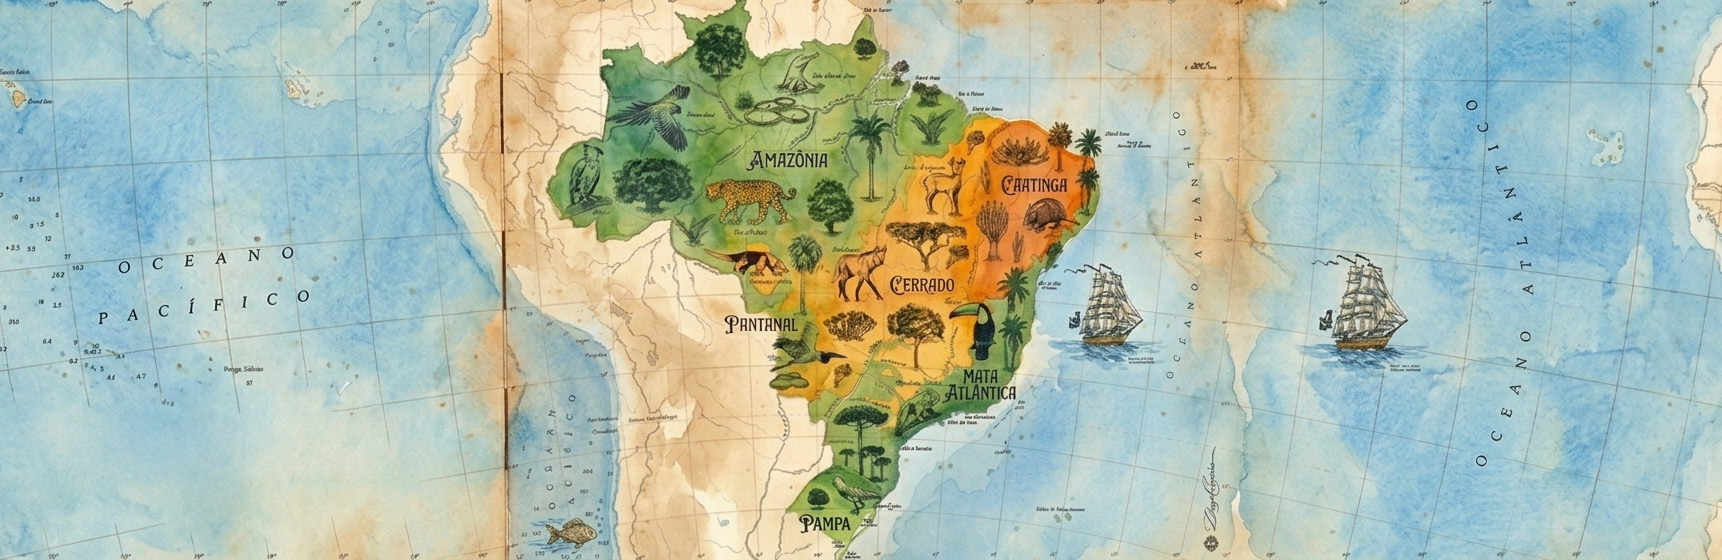
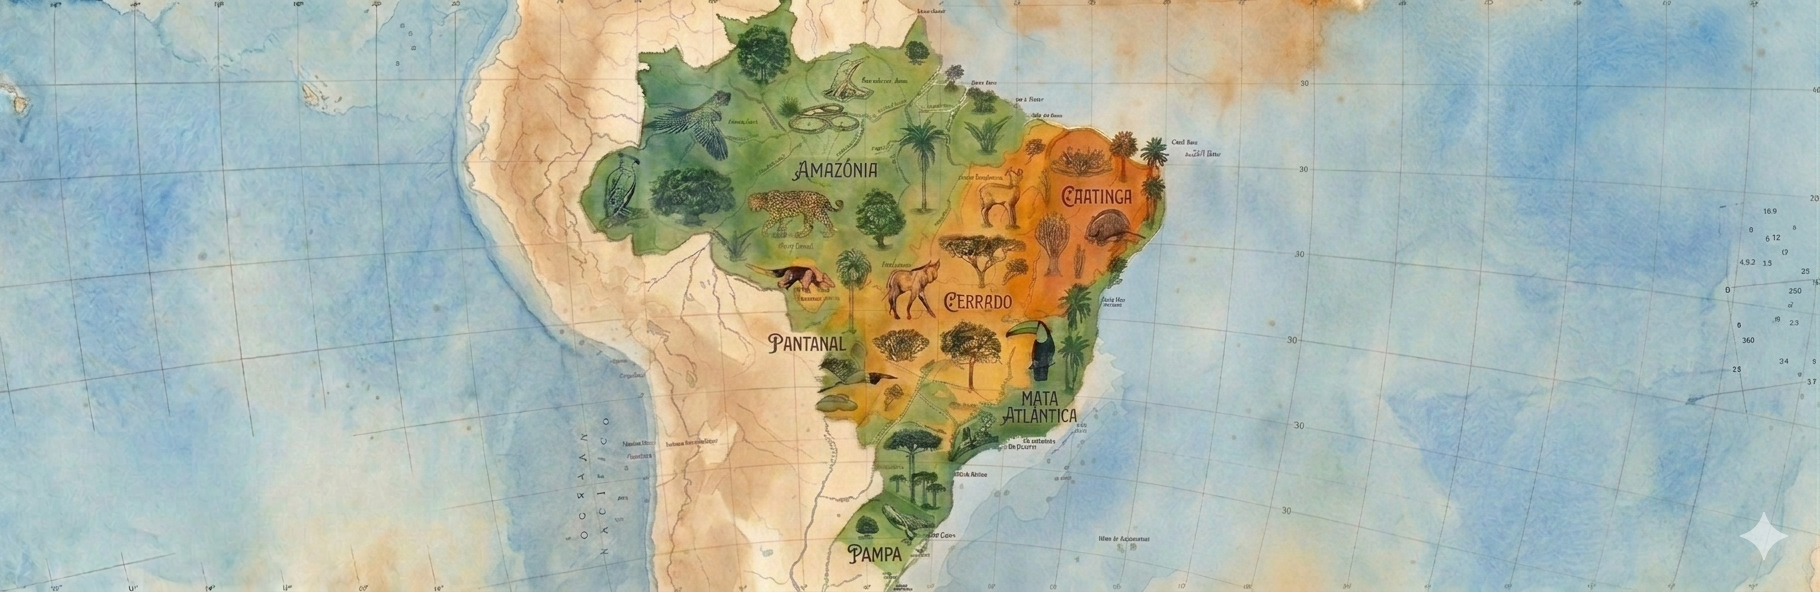
feat: pics

diff --git a/src/content.js b/src/content.js
@@ -121,21 +121,22 @@ export const I18N = {
         { name: 'Acarajé', desc: 'Bahian street food of Nigerian origin, packed with flavour.', img: '/images/food-acaraje.png' },
         { name: 'Pão de queijo', desc: 'Warm, chewy cheese bread; impossible to eat just one.', img: '/images/food-pao-de-queijo.png' },
         { name: 'Coxinha', desc: 'Teardrop-shaped fried chicken croquettes, the king of snacks.', img: '/images/food-coxinha.png' },
-        { name: 'Açaí', desc: 'Frozen Amazonian berry bowls, served thick and cold.', img: '' },
-        { name: 'Tapioca', desc: 'Cassava crêpes, sweet or savoury.', img: '' },
-        { name: 'Brigadeiro & pudim', desc: 'Chocolate fudge balls and caramel flan, the classic sweets.', img: '' },
-        { name: 'Caipirinha', desc: 'The national cocktail: cachaça, lime, sugar, and ice.', img: '' },
+        { name: 'Açaí', desc: 'Frozen Amazonian berry bowls, served thick and cold.', img: '/images/food-acai.png' },
+        { name: 'Tapioca', desc: 'Cassava crêpes, sweet or savoury.', img: '/images/food-tapioca.png' },
+        { name: 'Brigadeiro', desc: 'Chocolate fudge balls, the classic sweet.', img: '/images/food-brigadeiro.png' },
+        { name: 'Pudim', desc: 'Brazilian-style caramel flan.', img: '/images/food-pudim.png' },
+        { name: 'Caipirinha', desc: 'The national cocktail: cachaça, lime, sugar, and ice.', img: '/images/food-caipirinha.png' },
       ] },
       holidays: { title: 'Christmas & New Year’s Eve', lead: 'Our wedding falls right between Brazil’s two biggest holidays, so it helps to know how the country celebrates:', items: [
-        { name: 'Christmas (24–25 Dec)', desc: 'A warm, family affair — the main celebration is dinner on the night of the 24th, and most shops and restaurants close on the 24th and 25th.', img: '' },
-        { name: 'New Year’s Eve (Réveillon)', desc: 'A national party, best by the sea: wear all white and jump seven waves at midnight. The biggest celebrations are in Rio, Florianópolis, Salvador, and Recife. Hotels sell out early, so book ahead.', img: '' },
+        { name: 'Christmas (24–25 Dec)', desc: 'A warm, family affair — the main celebration is dinner on the night of the 24th, and most shops and restaurants close on the 24th and 25th.', img: '/images/holiday-christmas.png' },
+        { name: 'New Year’s Eve (Réveillon)', desc: 'A national party, best by the sea: wear all white and jump seven waves at midnight. The biggest celebrations are in Rio, Florianópolis, Salvador, and Recife. Hotels sell out early, so book ahead.', img: '/images/holiday-new-years-eve.png' },
       ] },
       music: { title: 'Music & dance', lead: 'Music is everywhere in Brazil, and every region has its own beat:', foot: 'Don’t worry if you can’t dance — by the end of the night, you will.', items: [
-        { name: 'Samba', desc: 'The heartbeat of Rio, and of Carnival.', img: '' },
-        { name: 'Forró & baião', desc: 'Accordion-driven rhythms from the northeast, made for partner dancing.', img: '' },
-        { name: 'Axé', desc: 'High-energy, joyful pop from Bahia.', img: '' },
-        { name: 'Sertanejo', desc: 'Brazil’s country music, the sound of the interior.', img: '' },
-        { name: 'Rock', desc: 'Alive and well, with a big homegrown scene.', img: '' },
+        { name: 'Samba', desc: 'The heartbeat of Rio, and of Carnival.', img: '/images/music-samba.jpg' },
+        { name: 'Forró & baião', desc: 'Accordion-driven rhythms from the northeast, made for partner dancing.', img: '/images/music-forro.png' },
+        { name: 'Olodum & axé', desc: 'High-energy, percursive rhythms from Bahia.', img: '/images/music-olodum.png' },
+        { name: 'Sertanejo', desc: 'Brazil’s country music, the sound of the interior.', img: '/images/music-sertanejo.png' },
+        { name: 'Funk', desc: 'Urban music to dance in Rio de Janeiro and São Paulo.', img: '/images/music-funk.png' },
       ] },
       trip: { title: 'Make it a trip',
         lead: 'Brasília sits at the centre of the country, with quick connections to the coast and beyond. If you’re flying this far, it’s worth seeing more of Brazil.',
@@ -313,21 +314,22 @@ export const I18N = {
         { name: 'Acarajé', desc: 'Comida de rua baiana de origem nigeriana, cheia de sabor.', img: '/images/food-acaraje.png' },
         { name: 'Pão de queijo', desc: 'Quentinho e elástico; impossível comer só um.', img: '/images/food-pao-de-queijo.png' },
         { name: 'Coxinha', desc: 'O salgado em formato de gota, rei dos petiscos.', img: '/images/food-coxinha.png' },
-        { name: 'Açaí', desc: 'A tigela gelada da fruta amazônica, servida bem grossa.', img: '' },
-        { name: 'Tapioca', desc: 'Crepes de mandioca, doces ou salgados.', img: '' },
-        { name: 'Brigadeiro & pudim', desc: 'Os doces clássicos de qualquer festa.', img: '' },
-        { name: 'Caipirinha', desc: 'O coquetel nacional: cachaça, limão, açúcar e gelo.', img: '' },
+        { name: 'Açaí', desc: 'A tigela gelada da fruta amazônica, servida bem grossa.', img: '/images/food-acai.png' },
+        { name: 'Tapioca', desc: 'Crepes de mandioca, doces ou salgados.', img: '/images/food-tapioca.png' },
+        { name: 'Brigadeiro', desc: 'O doce clássico de qualquer festa.', img: '/images/food-brigadeiro.png' },
+        { name: 'Pudim', desc: 'Flan no melhor estilo brasileiro.', img: '/images/food-pudim.png' },
+        { name: 'Caipirinha', desc: 'O coquetel nacional: cachaça, limão, açúcar e gelo.', img: '/images/food-caipirinha.png' },
       ] },
       holidays: { title: 'Natal & Réveillon', lead: 'Nosso casamento cai bem entre os dois maiores feriados do Brasil, então vale saber como o país comemora:', items: [
-        { name: 'Natal (24–25 de dez)', desc: 'Uma celebração familiar e calorosa — a comemoração principal é a ceia na noite do dia 24, e a maioria das lojas e restaurantes fecha nos dias 24 e 25.', img: '' },
-        { name: 'Réveillon (Ano Novo)', desc: 'Uma festa nacional, melhor à beira-mar: vista branco e pule sete ondas à meia-noite. As maiores festas são no Rio, em Florianópolis, Salvador e Recife. Os hotéis esgotam cedo, então reserve com antecedência.', img: '' },
+        { name: 'Natal (24–25 de dez)', desc: 'Uma celebração familiar e calorosa — a comemoração principal é a ceia na noite do dia 24, e a maioria das lojas e restaurantes fecha nos dias 24 e 25.', img: '/images/holiday-christmas.png' },
+        { name: 'Réveillon (Ano Novo)', desc: 'Uma festa nacional, melhor à beira-mar: vista branco e pule sete ondas à meia-noite. As maiores festas são no Rio, em Florianópolis, Salvador e Recife. Os hotéis esgotam cedo, então reserve com antecedência.', img: '/images/holiday-new-years-eve.png' },
       ] },
       music: { title: 'Música & dança', lead: 'A música está em todo lugar no Brasil, e cada região tem seu próprio ritmo:', foot: 'Não se preocupe se você não sabe dançar — até o fim da noite, você vai saber.', items: [
-        { name: 'Samba', desc: 'O coração do Rio e do Carnaval.', img: '' },
-        { name: 'Forró & baião', desc: 'Ritmos de sanfona do Nordeste, feitos para dançar a dois.', img: '' },
-        { name: 'Axé', desc: 'O pop alegre e cheio de energia da Bahia.', img: '' },
-        { name: 'Sertanejo', desc: 'A música do interior, que você vai ouvir em todo canto.', img: '' },
-        { name: 'Rock', desc: 'Vivo e forte, com uma grande cena nacional.', img: '' },
+        { name: 'Samba', desc: 'O coração do Rio e do Carnaval.', img: '/images/music-samba.jpg' },
+        { name: 'Forró & baião', desc: 'Ritmos de sanfona do Nordeste, feitos para dançar a dois.', img: '/images/music-forro.png' },
+        { name: 'Olodum & axé', desc: 'O pop alegre e cheio de energia da Bahia.', img: '/images/music-olodum.png' },
+        { name: 'Sertanejo', desc: 'A música do interior, que você vai ouvir em todo canto.', img: '/images/music-sertanejo.png' },
+        { name: 'Funk', desc: 'Ritmo urbano e dançante do Rio de Janeiro e São Paulo.', img: '/images/music-funk.png' },
       ] },
       trip: { title: 'Aproveite a viagem',
         lead: 'Brasília fica no centro do país, com conexões rápidas para o litoral e além. Se você vai voar até aqui, vale conhecer mais do Brasil.',